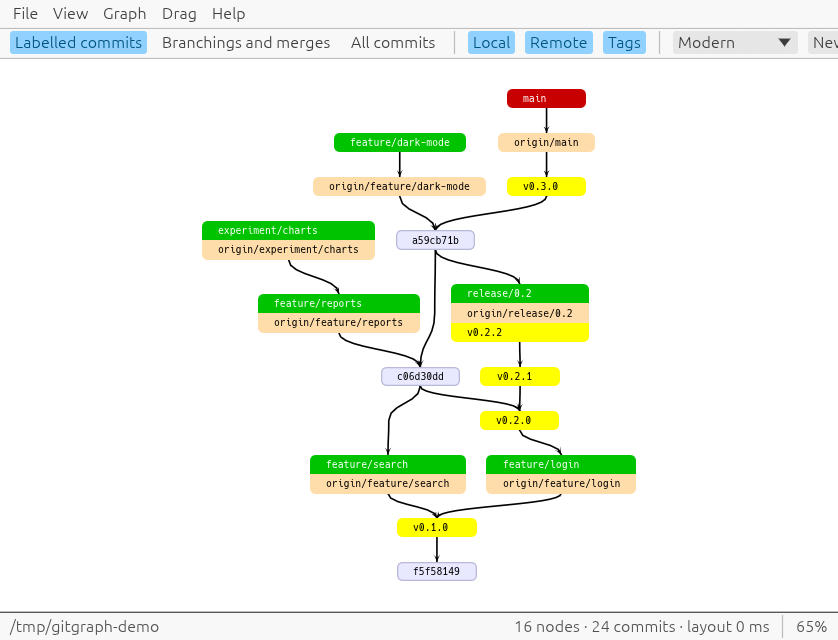
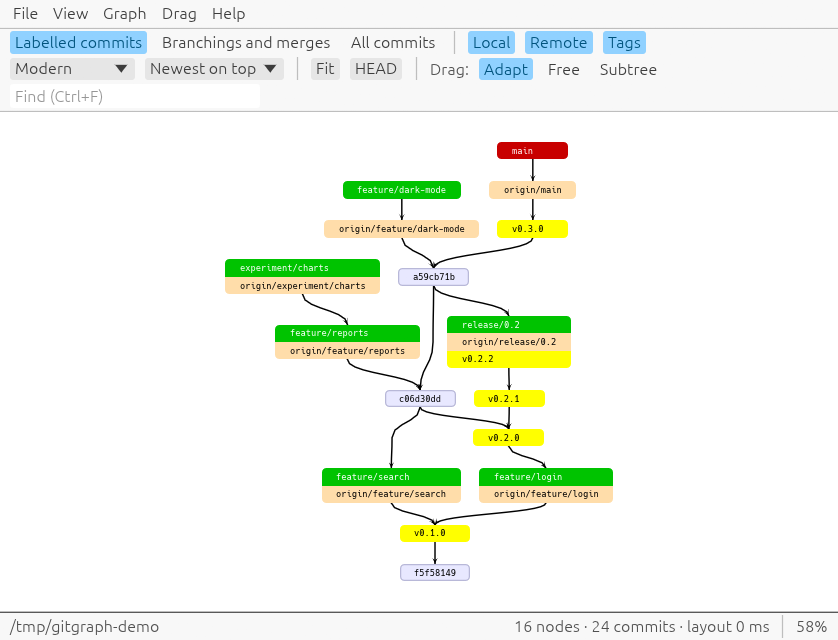
Fix waking nodes during overlap pushes; tidy the wrapping toolbar
- A node hit by an overlap push while the frame's targets were being
  relaxed was woken by reading the (moved-out) target vector, which
  panics in graphs larger than the simulated neighbourhood. Test: a
  drag sweeping through a row of 10,000 tips.
- Toolbar groups start a new line instead of overflowing the window;
  refreshed the README screenshot.

diff --git a/crates/gitgraph-core/src/physics.rs b/crates/gitgraph-core/src/physics.rs
@@ -748,9 +748,16 @@ impl Net {
     }
 
     fn activate(&mut self, p: usize) {
+        let t = self.target[p];
+        self.activate_heading(p, t);
+    }
+
+    /// Wakes particle `p`, which is heading for `target` (for use while `self.target` is
+    /// being relaxed elsewhere).
+    fn activate_heading(&mut self, p: usize, target: Point) {
         if !self.is_active[p] {
             self.is_active[p] = true;
-            self.before[p] = self.target[p];
+            self.before[p] = target;
             self.active.push(p as u32);
         }
     }
@@ -1137,8 +1144,8 @@ impl Net {
                 continue;
             }
             let (a, b) = (pair.a as usize, pair.b as usize);
-            self.activate(a);
-            self.activate(b);
+            self.activate_heading(a, target[a]);
+            self.activate_heading(b, target[b]);
             let wa = if self.held[a] { 0.0 } else { 1.0 };
             let wb = if self.held[b] { 0.0 } else { 1.0 };
             if wa + wb == 0.0 {
@@ -1563,6 +1570,40 @@ mod tests {
         net.release(&NetParams::default());
         settle(&mut net, &NetParams::default());
         assert_eq!(net.active_count(), 0, "everything goes back to sleep");
+    }
+
+    #[test]
+    fn pushing_wakes_resting_nodes_in_big_graphs() {
+        // A row of more tips than are simulated at once, under one root.
+        let tips = ACTIVE_BUDGET as u32 + 2_000;
+        let input = LayoutInput {
+            sizes: vec![Point::new(40.0, 20.0); tips as usize + 1],
+            times: (0..=tips as i64).rev().collect(),
+            edges: (0..tips).map(|t| edge(t, tips)).collect(),
+            priority: Vec::new(),
+        };
+        let (l, mut net) = net_for(&input);
+        let row = |i: usize| l.nodes[i].x;
+        let first = (0..tips as usize)
+            .min_by(|&a, &b| row(a).total_cmp(&row(b)))
+            .unwrap();
+        let params = NetParams::default();
+        net.grab(first, &[first], &[], true);
+        let asleep = (0..tips as usize).filter(|&i| !net.is_active[i]).count();
+        assert!(asleep > 0, "part of the row is not simulated");
+        // Sweep through the whole row in big jumps.
+        let span = (0..tips as usize).map(row).fold(0.0f32, f32::max) - row(first);
+        for f in 1..=40 {
+            let x = row(first) + span * f as f32 / 40.0;
+            net.drag_to(Point::new(x, l.nodes[first].y + 3.0));
+            net.step(1.0 / 60.0, &params);
+        }
+        net.release(&params);
+        settle(&mut net, &params);
+        for i in 0..=tips as usize {
+            let p = net.node_pos(i);
+            assert!(p.x.is_finite() && p.y.is_finite());
+        }
     }
 
     #[test]

diff --git a/crates/gitgraph/src/app.rs b/crates/gitgraph/src/app.rs
@@ -942,11 +942,11 @@ impl GitGraphApp {
             for s in Simplification::ALL {
                 ui.selectable_value(&mut g.simplification, s, s.label());
             }
-            ui.separator();
+            group_break(ui, 190.0);
             ui.toggle_value(&mut g.show_local_branches, "Local");
             ui.toggle_value(&mut g.show_remote_branches, "Remote");
             ui.toggle_value(&mut g.show_tags, "Tags");
-            ui.separator();
+            group_break(ui, 290.0);
             let current = Look::of(&self.settings);
             egui::ComboBox::from_id_salt("look")
                 .selected_text(current.map_or("Custom", Look::label))
@@ -967,7 +967,7 @@ impl GitGraphApp {
                         ui.selectable_value(&mut self.settings.layout.direction, d, d.label());
                     }
                 });
-            ui.separator();
+            group_break(ui, 100.0);
             if ui
                 .button("Fit")
                 .on_hover_text("Fit the whole graph (F)")
@@ -982,7 +982,7 @@ impl GitGraphApp {
             {
                 self.go_to_head();
             }
-            ui.separator();
+            group_break(ui, 230.0);
             ui.label("Drag:");
             for (m, key) in DragModel::ALL.into_iter().zip(["1", "2", "3"]) {
                 if ui
@@ -1001,7 +1001,7 @@ impl GitGraphApp {
             {
                 self.reset_positions();
             }
-            ui.separator();
+            group_break(ui, 210.0);
             let search = egui::TextEdit::singleline(&mut self.search.query)
                 .id(egui::Id::new("search"))
                 .hint_text("Find (Ctrl+F)")
@@ -1639,6 +1639,17 @@ impl GitGraphApp {
                     }
                 });
             });
+    }
+}
+
+/// Separates groups in the (wrapping) toolbar: a separator, or a new line if the next group,
+/// about `width` wide, would not fit.
+fn group_break(ui: &mut Ui, width: f32) {
+    // (In a wrapping layout `available_width` is the whole row.)
+    if ui.max_rect().right() - ui.cursor().min.x < width {
+        ui.end_row();
+    } else {
+        ui.separator();
     }
 }
 
